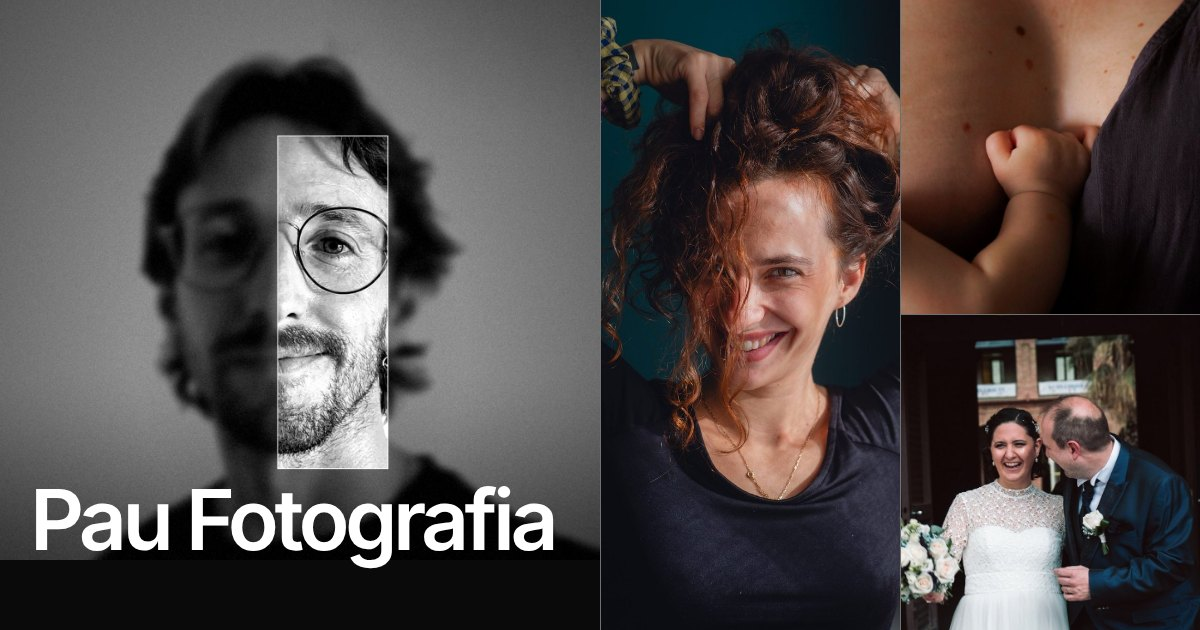
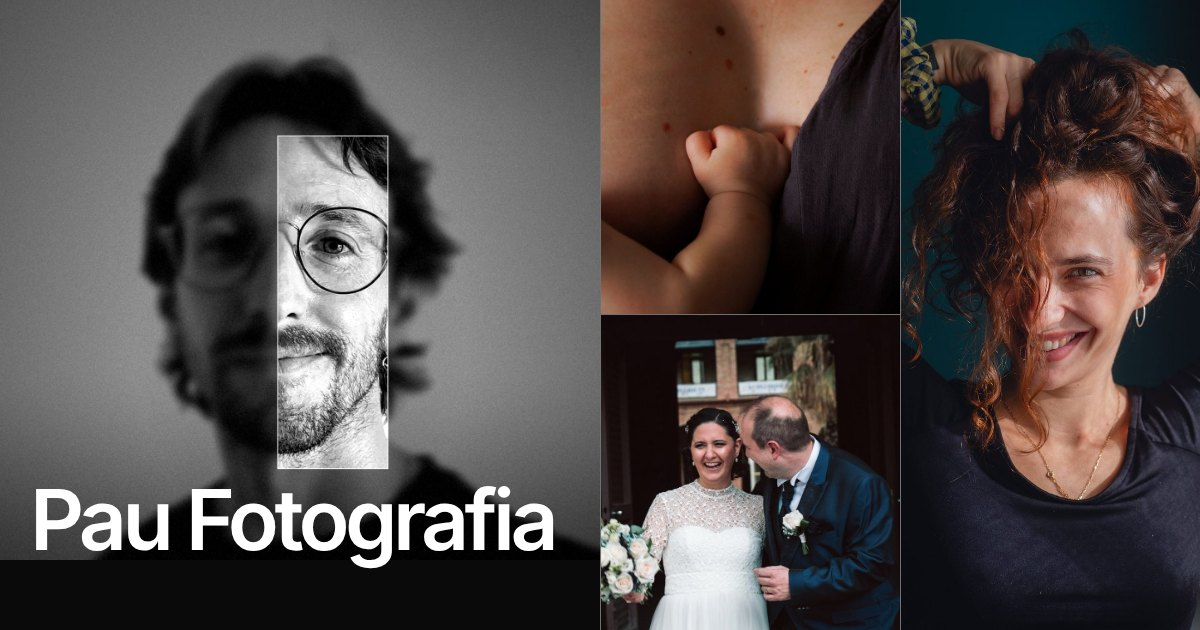
Vista prèvia: Elvi a la dreta; títol i descripció de l'enllaç més clars
Claude-Session: https://claude.ai/code/session_01Gu4fKh15S1mJkh4ThjJ3MW

diff --git a/index.html b/index.html
@@ -4,12 +4,12 @@
 <meta charset="utf-8">
 <meta name="viewport" content="width=device-width, initial-scale=1, viewport-fit=cover">
 <title>Pau Fotografia · Pack promocional</title>
-<meta name="description" content="Fotògraf social i documental a Llinars del Vallès. Pack promocional: 85 € per sessió de 45 min – 1 h, entrega de 15 a 25 fotografies.">
+<meta name="description" content="Fotògraf social i documental. Sessió de 45 min – 1 h · 15 – 25 fotografies · Retrat, família, embaràs i parella. Llinars del Vallès.">
 <meta name="theme-color" content="#0a0a0a">
 <meta property="og:type" content="website">
-<meta property="og:title" content="Pau Fotografia · Pack promocional Primer carret · 85 €">
-<meta property="og:description" content="Retrat · Família · Embaràs · Parella. Sessió de 45 min – 1 h, entrega de 15 – 25 fotografies. Llinars del Vallès.">
-<meta property="og:image" content="https://pau-fotografia.pages.dev/pack/og.jpg?v=4">
+<meta property="og:title" content="Pau Fotografia · Primer carret: pack promocional a 85 €">
+<meta property="og:description" content="Sessió de 45 min – 1 h · 15 – 25 fotografies · Retrat, família, embaràs i parella. Llinars del Vallès.">
+<meta property="og:image" content="https://pau-fotografia.pages.dev/pack/og.jpg?v=5">
 <meta property="og:image:width" content="1200">
 <meta property="og:image:height" content="630">
 <meta property="og:url" content="https://pau-fotografia.pages.dev/">
